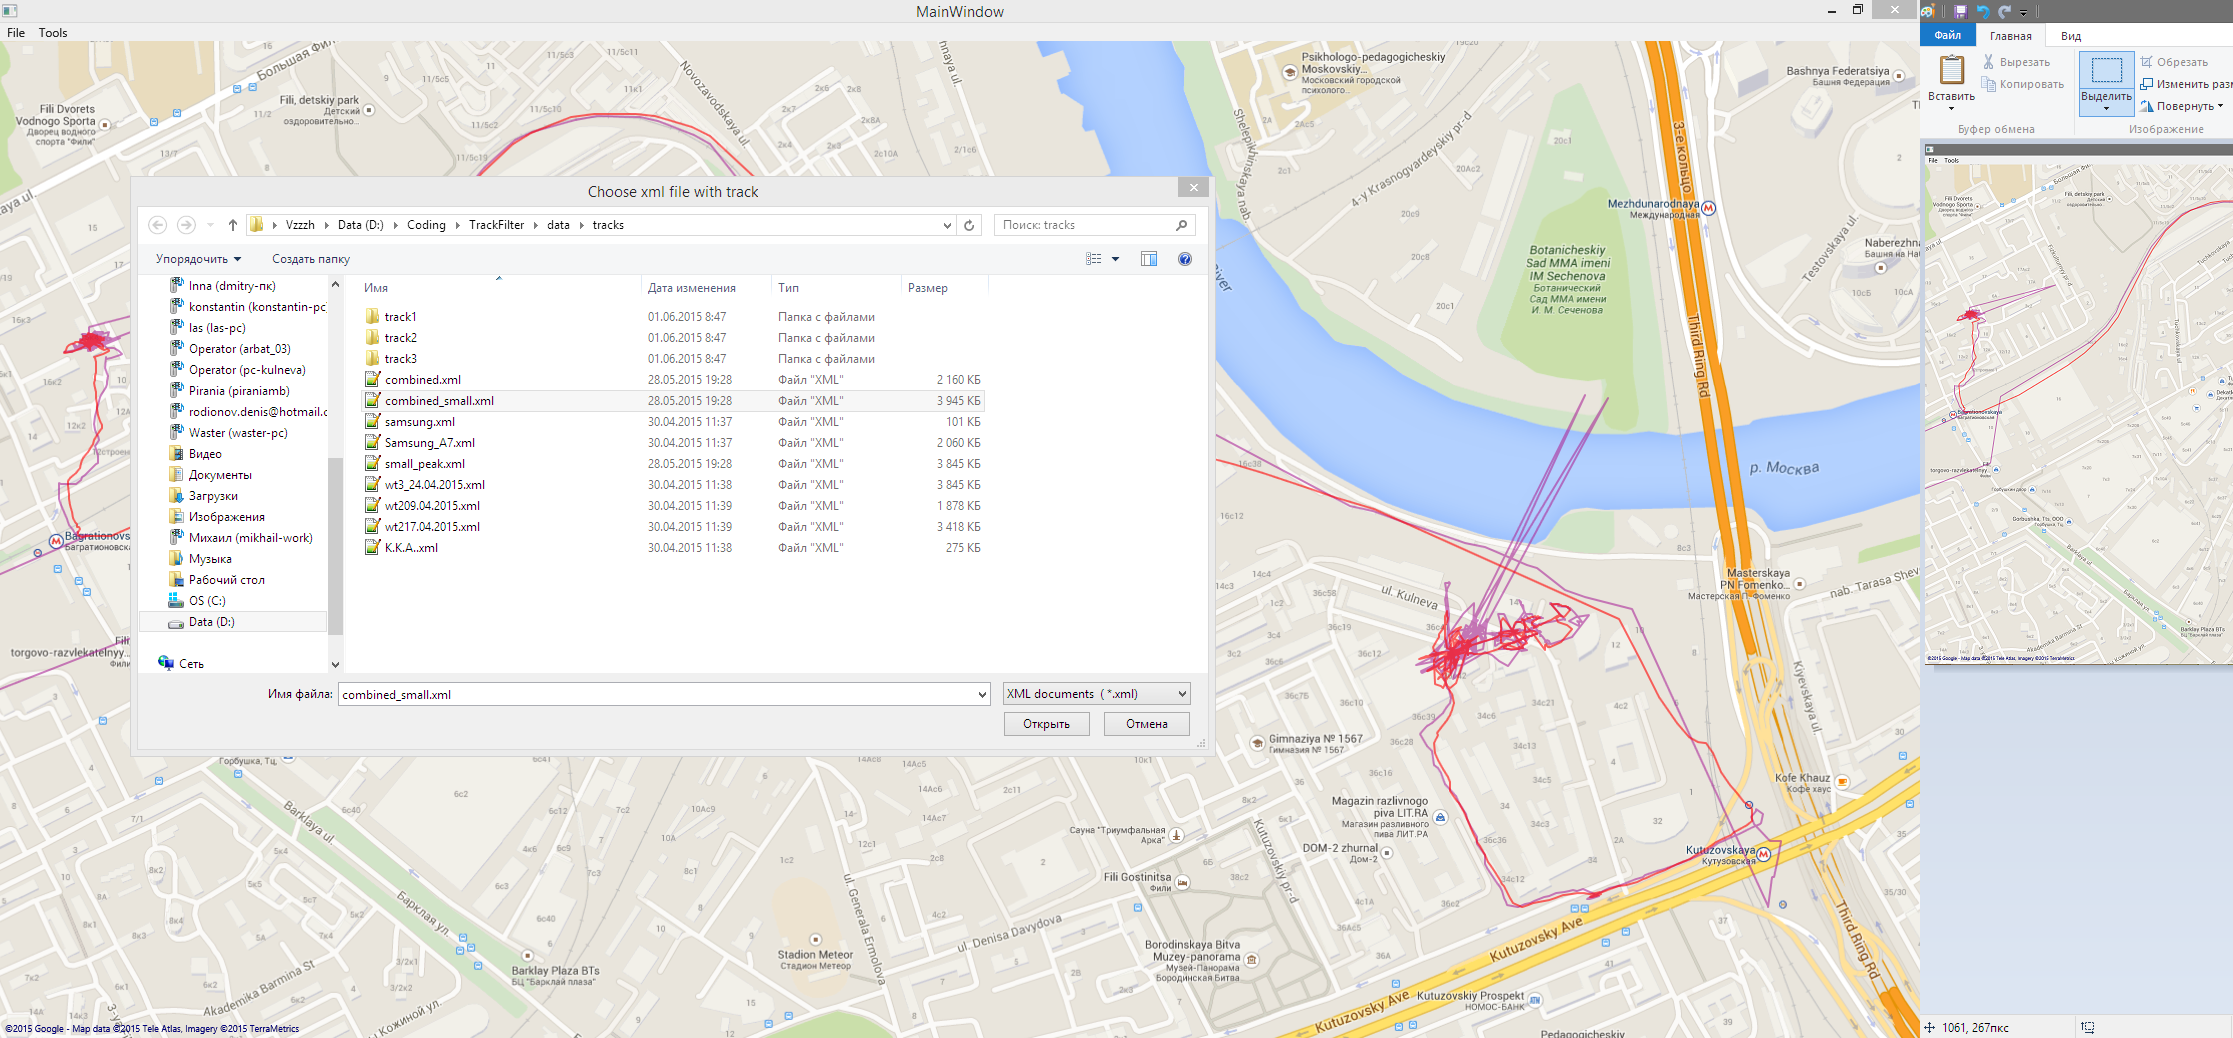
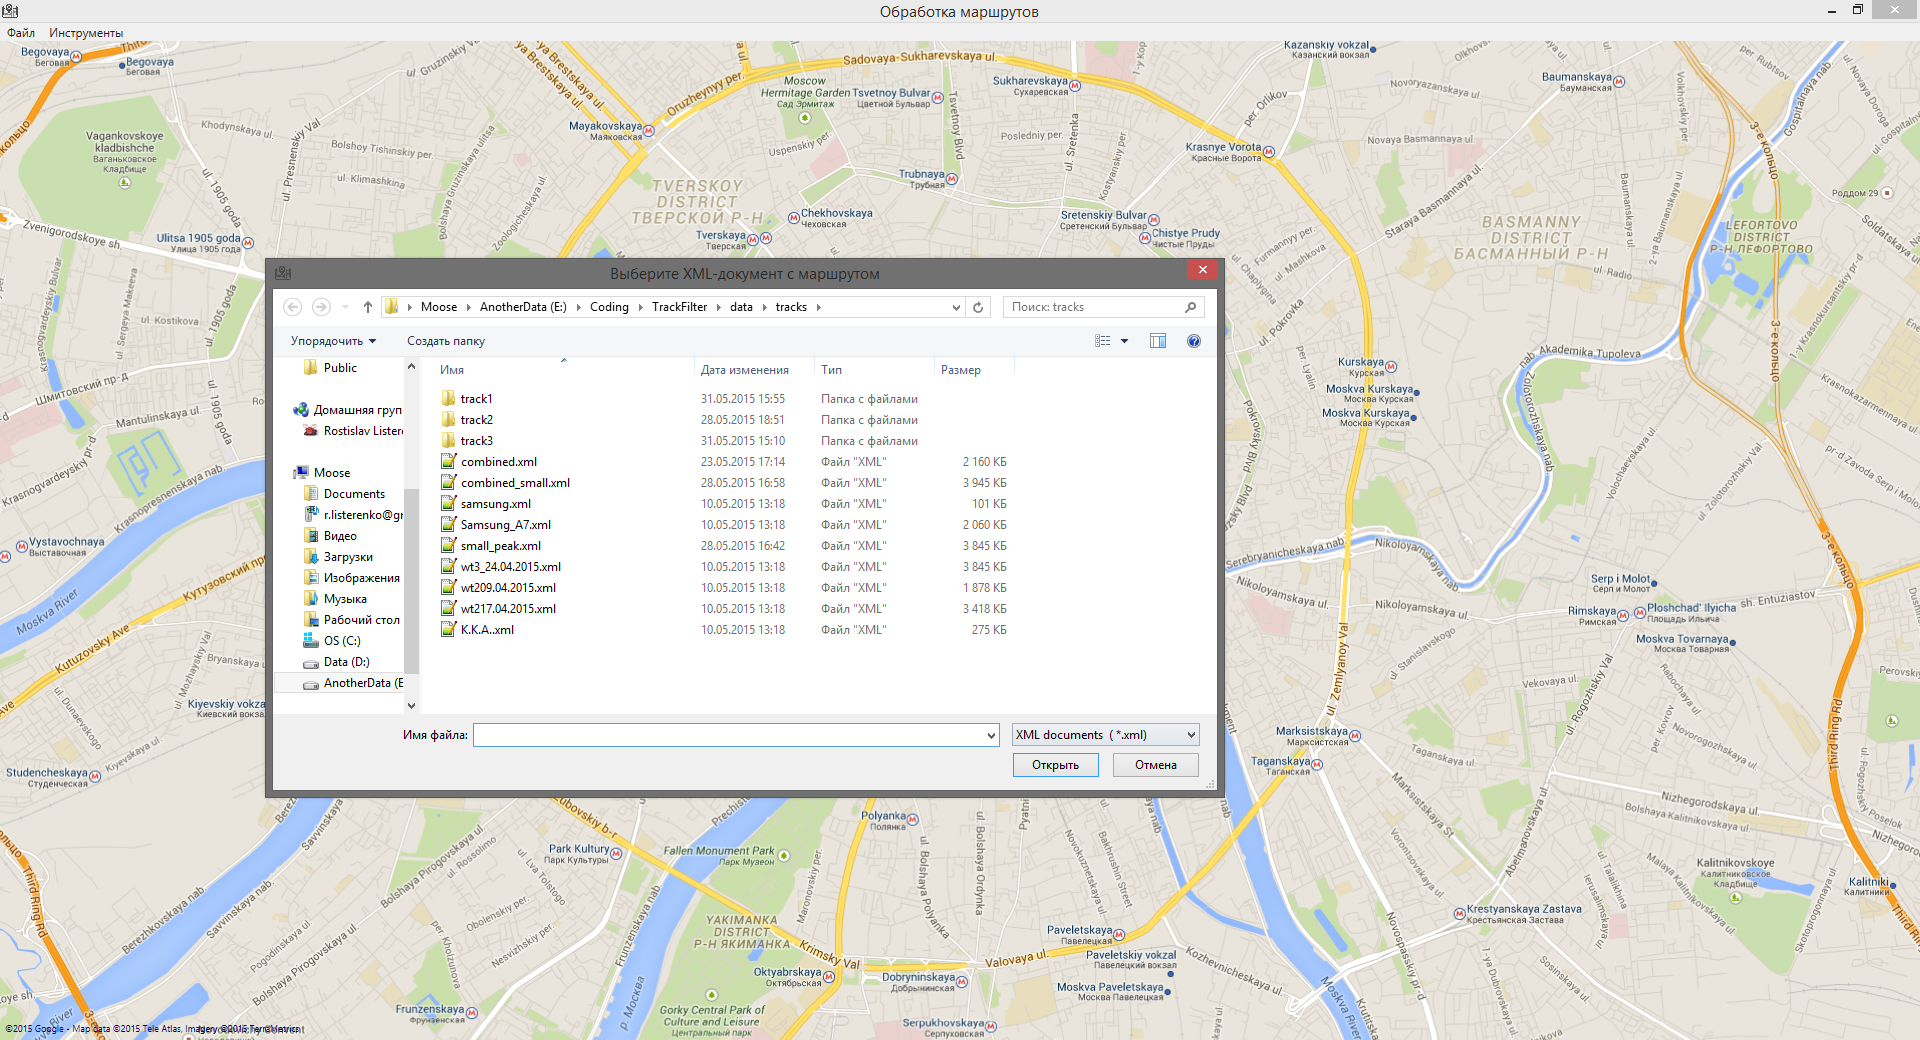
рюсский

diff --git a/src/TrackFilter/TrackFilter/Views/AnalysisWindow.xaml b/src/TrackFilter/TrackFilter/Views/AnalysisWindow.xaml
@@ -6,7 +6,8 @@
         xmlns:viewModels="clr-namespace:TrackFilter.ViewModels"
         xmlns:oxy="http://oxyplot.org/wpf"
         mc:Ignorable="d"
-        Title="AnalysisWindow"
+        Title="Анализ метода"
+        Icon="../27-512.png"
         WindowState="Maximized" d:DataContext="{d:DesignInstance viewModels:AnalysisViewModel }">
     <Grid>
         <Grid.RowDefinitions>
@@ -14,22 +15,22 @@
             <RowDefinition />
         </Grid.RowDefinitions>
         <Menu>
-            <MenuItem Header="File">
-                <MenuItem Header="Open Reference Track"
+            <MenuItem Header="Файл">
+                <MenuItem Header="Открыть эталонный маршрут"
                           Command="{Binding OpenReferenceCommand}" />
-                <MenuItem Header="Open Actual Track"
+                <MenuItem Header="Открыть маршрут"
                           Command="{Binding OpenActualCommand}" />
-                <MenuItem Header="Close Window"
+                <MenuItem Header="Закрыть"
                           Command="{Binding CloseCommand}"
                           CommandParameter="{Binding RelativeSource={RelativeSource Mode=FindAncestor, AncestorType=Window}}"/>
             </MenuItem>
 
         </Menu>
         <TabControl Grid.Row="1">
-            <TabItem Header="Map">
+            <TabItem Header="Карта">
                 <views:MapControl Tracks="{Binding Tracks}" />
             </TabItem>
-            <TabItem Header="Plot">
+            <TabItem Header="График">
                 <Grid VerticalAlignment="Stretch"
                       HorizontalAlignment="Stretch">
                     <Grid.RowDefinitions>
@@ -39,7 +40,7 @@
                     <oxy:PlotView Model="{Binding Plot}" />
                     <StackPanel Grid.Row="1"
                                 Orientation="Horizontal">
-                        <TextBlock Text="Source average:"
+                        <TextBlock Text="Среднее отклонение исходного маршрута:"
                                    VerticalAlignment="Center"
                                    ></TextBlock>
                         <TextBox Text="{Binding SourceAverage, StringFormat={}{0:N4}, ConverterCulture=ru-RU}"
@@ -47,7 +48,7 @@
 
                         <TextBox Text="{Binding SourceVariance, StringFormat={}{0:N4}, ConverterCulture=ru-RU}"
                                  Margin="10"></TextBox>
-                        <TextBlock Text="Result average"
+                        <TextBlock Text="Среднее отклонение результата:"
                                    VerticalAlignment="Center"
                                    Margin="20,0,0,0"></TextBlock>
                         <TextBox Text="{Binding ResultAverage, StringFormat={}{0:N4}, ConverterCulture=ru-RU}"

diff --git a/src/TrackFilter/TrackFilter/Views/MainWindow.xaml b/src/TrackFilter/TrackFilter/Views/MainWindow.xaml
@@ -5,25 +5,26 @@
         xmlns:mc="http://schemas.openxmlformats.org/markup-compatibility/2006"
         xmlns:viewModels="clr-namespace:TrackFilter.ViewModels"
         mc:Ignorable="d"
-        Title="MainWindow"
+        Title="Обработка маршрутов"
         WindowState="Maximized" 
+        Icon="../27-512.png"
         d:DataContext="{d:DesignInstance viewModels:MainViewModel}">
     <DockPanel>
         <Menu
             DockPanel.Dock="Top">
-            <MenuItem Header="File">
-                <MenuItem Header="Open track"
+            <MenuItem Header="Файл">
+                <MenuItem Header="Открыть маршрут"
                           Command="{Binding LoadFileCommand}"></MenuItem>
-                <MenuItem Header="Save Result"
+                <MenuItem Header="Сохранить результат"
                           Command="{Binding ExportTrackCommand}"></MenuItem>
-                <MenuItem Header="Exit"
+                <MenuItem Header="Выход"
                           Command="{Binding CloseCommand}"
                           CommandParameter="{Binding RelativeSource={RelativeSource FindAncestor, AncestorType=Window}}"></MenuItem>
             </MenuItem>
-            <MenuItem Header="Tools">
-                <MenuItem Header="Analysis"
+            <MenuItem Header="Инструменты">
+                <MenuItem Header="Анализ"
                           Command="{Binding StartAnalysisCommand}"></MenuItem>
-                <MenuItem Header="Settings"
+                <MenuItem Header="Настройки"
                           Command="{Binding ShowSettingsCommand}"
                           ></MenuItem>
             </MenuItem>

diff --git a/src/TrackFilter/TrackFilter/Views/SettingsWindow.xaml b/src/TrackFilter/TrackFilter/Views/SettingsWindow.xaml
@@ -5,7 +5,7 @@
         xmlns:mc="http://schemas.openxmlformats.org/markup-compatibility/2006"
         xmlns:viewModels="clr-namespace:TrackFilter.ViewModels"
         mc:Ignorable="d"
-        Title="SettingsWindow" 
+        Title="Настройки" 
         Height="400" 
         Width="300" 
         WindowStyle="ToolWindow"
@@ -27,13 +27,13 @@
             <RowDefinition />
         </Grid.RowDefinitions>
         <CheckBox IsChecked="{Binding StopsDetection}"
-                  Grid.Row="0">Stops Detection</CheckBox>
+                  Grid.Row="0">Определение остановок</CheckBox>
         <CheckBox IsChecked="{Binding SpikeDetection}"
-                  Grid.Row="1">Spike Detection</CheckBox>
+                  Grid.Row="1">Определение пиков</CheckBox>
         <CheckBox IsChecked="{Binding Filtering}"
-                  Grid.Row="2">Filtering</CheckBox>
+                  Grid.Row="2">Фильтрация</CheckBox>
         <CheckBox IsChecked="{Binding PointsEnabled}"
-                  Grid.Row="3">Show Points</CheckBox>
+                  Grid.Row="3">Отображать точки</CheckBox>
         <Button Command="{Binding CloseCommand}"
                 CommandParameter="{Binding RelativeSource={RelativeSource FindAncestor, AncestorType=Window}}"
                 Grid.Row="4">OK</Button>

diff --git a/src/TrackFilter/TrackFilter/ViewModels/MainViewModel.cs b/src/TrackFilter/TrackFilter/ViewModels/MainViewModel.cs
@@ -108,7 +108,7 @@ namespace TrackFilter.ViewModels
                 {
                     Filter = "XML documents | *.xml",
                     FileName = "Result.xml",
-                    Title = "Choose location to save result track"
+                    Title = "Выберите путь для сохранения"
                 };
                 var result = dialog.ShowDialog();
                 if (result == true)
@@ -120,7 +120,7 @@ namespace TrackFilter.ViewModels
             }
             catch
             {
-                MessageBox.Show("Error occured while saving track");
+                MessageBox.Show("Ошибка в процессе сохранения");
             }
         }
 
@@ -143,7 +143,7 @@ namespace TrackFilter.ViewModels
                 {
                     Filter = "XML documents | *.xml",
                     Multiselect = false,
-                    Title = "Choose xml file with track"
+                    Title = "Выберите XML-документ с маршрутом"
                 };
                 var result = dialog.ShowDialog();
                 if (result == true)
@@ -158,7 +158,7 @@ namespace TrackFilter.ViewModels
             }
             catch
             {
-                MessageBox.Show("Bad file format");
+                MessageBox.Show("Неверный формат файла");
             }
         }
 
